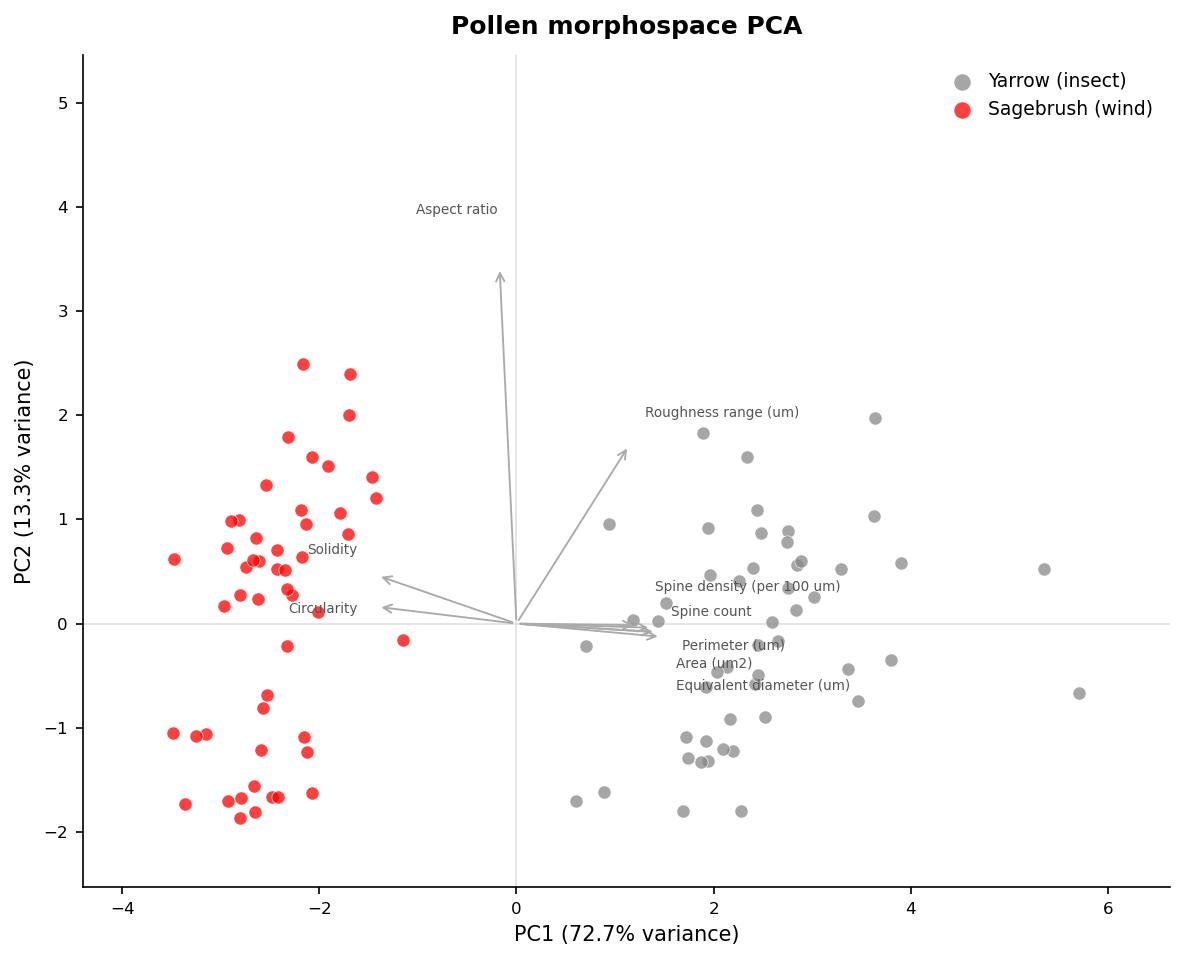
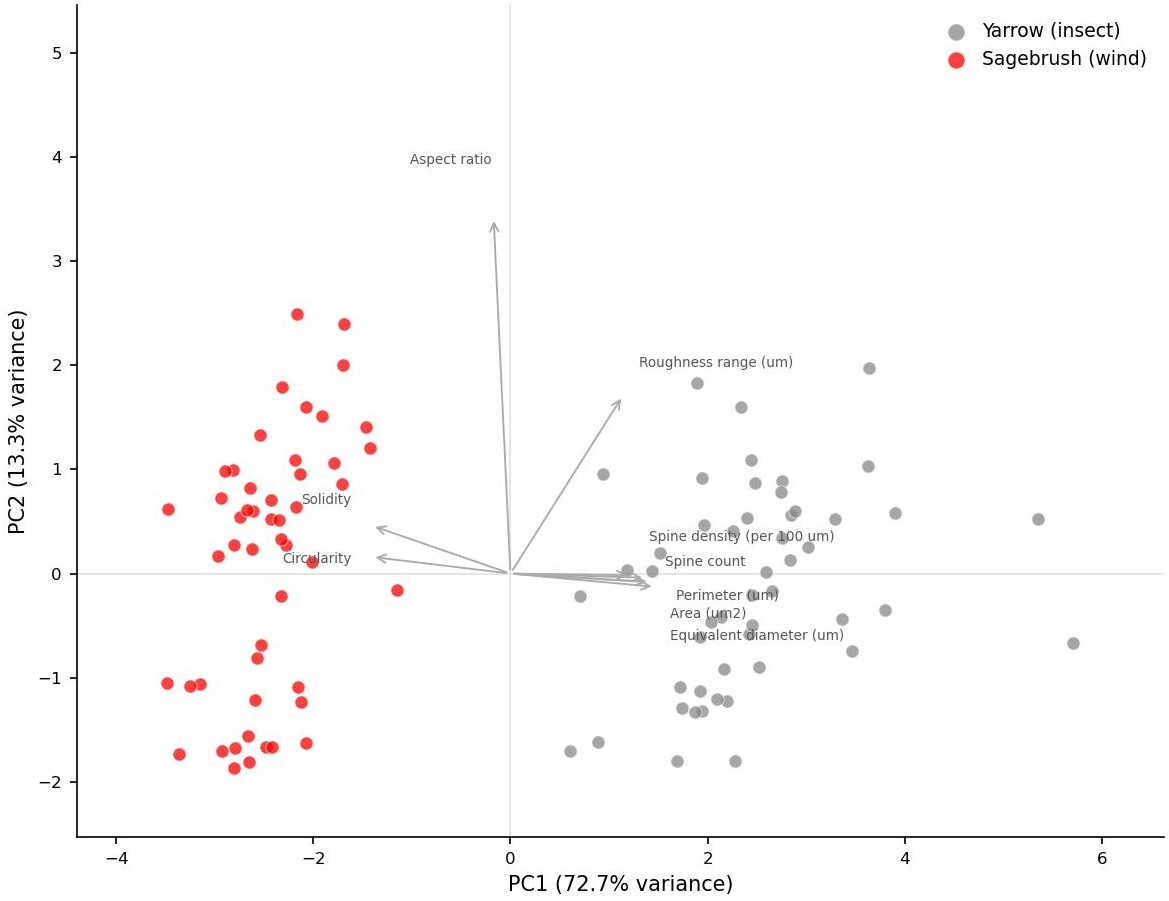
caption formatting for pollen page

diff --git a/pollen-morphology/index.html b/pollen-morphology/index.html
@@ -262,14 +262,14 @@
 
       <div class="article-img-wrap">
         <img src="/pollen/pollen03.jpg" alt="Pollen SEM image" />
-      </div>
-      <p class="article-img-caption">Sample images from image segmentation pipeline. Code is available upon request.</p>      
-      <p>A custom Python-based image processing and segmentation pipeline was created for this project. Segmented regions were retained as individual pollen grains if they satisfied the following criteria: area 30,000–350,000 px², circularity ≥ 0.20, aspect ratio ≤ 1.8, and centroid located ≥ 40 px from the image border. In total, 50 yarrow grains and 51 sagebrush grains were retained. For each retained grain, the following morphometric variables were extracted: diameter, area, perimeter, aspect ratio, circularity, solidity, spine count, spine density and roughness range. All linear and area measurements were converted to physical units using the instrument pixel size.</p>
+        <p class="article-img-caption">Sample images from image segmentation pipeline. Code is available upon request.</p>
       </div>
 
-    <div class="article-img-wrap">
+      <p>A custom Python-based image processing and segmentation pipeline was created for this project. Segmented regions were retained as individual pollen grains if they satisfied the following criteria: area 30,000–350,000 px², circularity ≥ 0.20, aspect ratio ≤ 1.8, and centroid located ≥ 40 px from the image border. In total, 50 yarrow grains and 51 sagebrush grains were retained. For each retained grain, the following morphometric variables were extracted: diameter, area, perimeter, aspect ratio, circularity, solidity, spine count, spine density and roughness range. All linear and area measurements were converted to physical units using the instrument pixel size.</p>
+
+      <div class="article-img-wrap">
         <img src="/pollen/pollen04.jpg" alt="Violin plots" />
-      <p class="article-img-caption">Pollen grain morphometric measurements. Analysis code available upon request.</p>
+        <p class="article-img-caption">Pollen grain morphometric measurements. Analysis code available upon request.</p>
       </div>
 
     <p>Quantitative comparisons between pollen grains supported the prediction that pollination syndrome shapes grain architecture, even within a plant tribe. Yarrow grains are consistently larger and spinier than those of sagebrush, and this distinction was captured robustly across the nine variables tested. These results are consistent with aerodynamic and mechanical frameworks for pollen evolution: wind-dispersed pollen is predicted to be small, smooth, and spherical to minimize drag and maximize suspension time in air, while insect-dispersed pollen is predicted to be larger and ornamented with structures that facilitate adhesion to pollinator body hairs.</p>